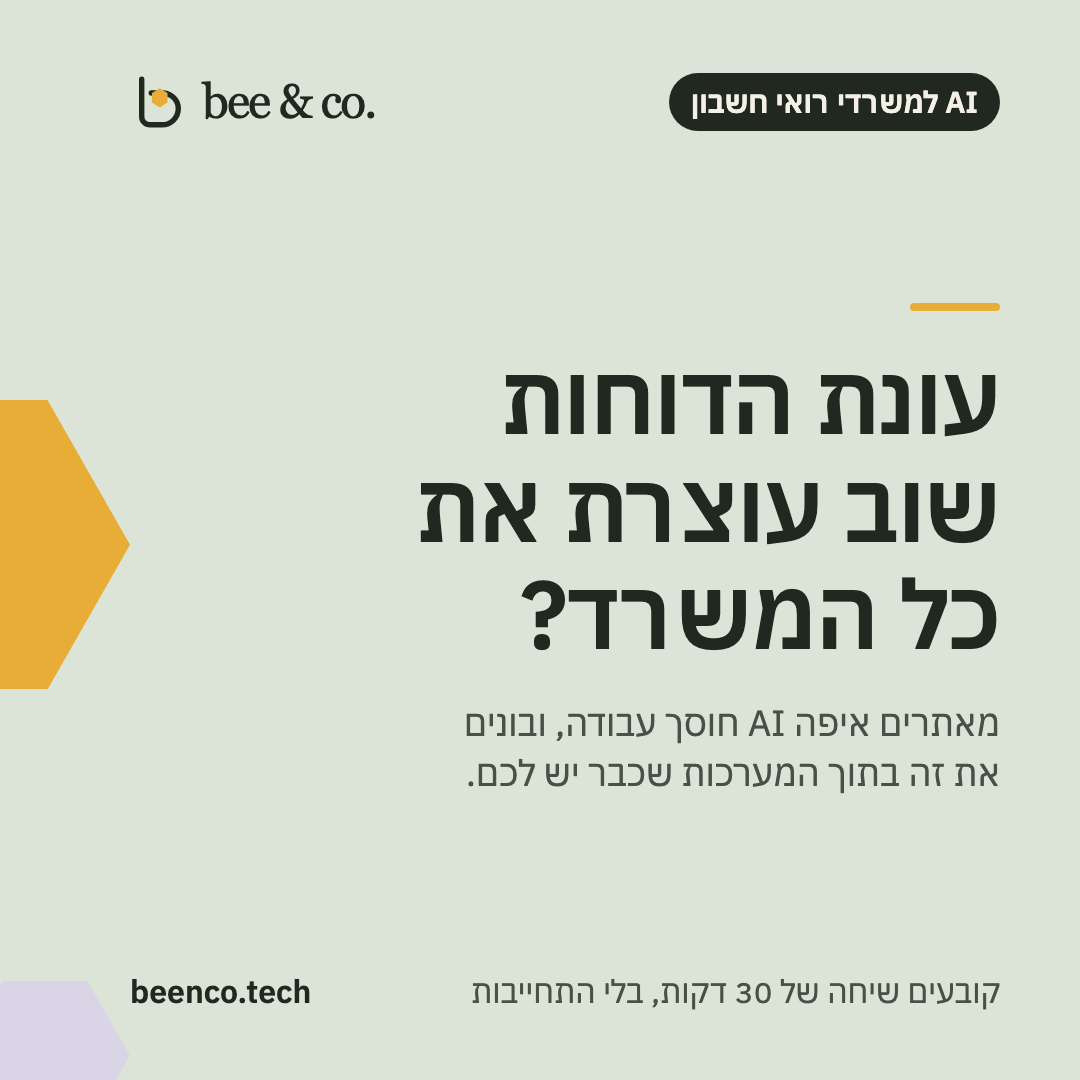
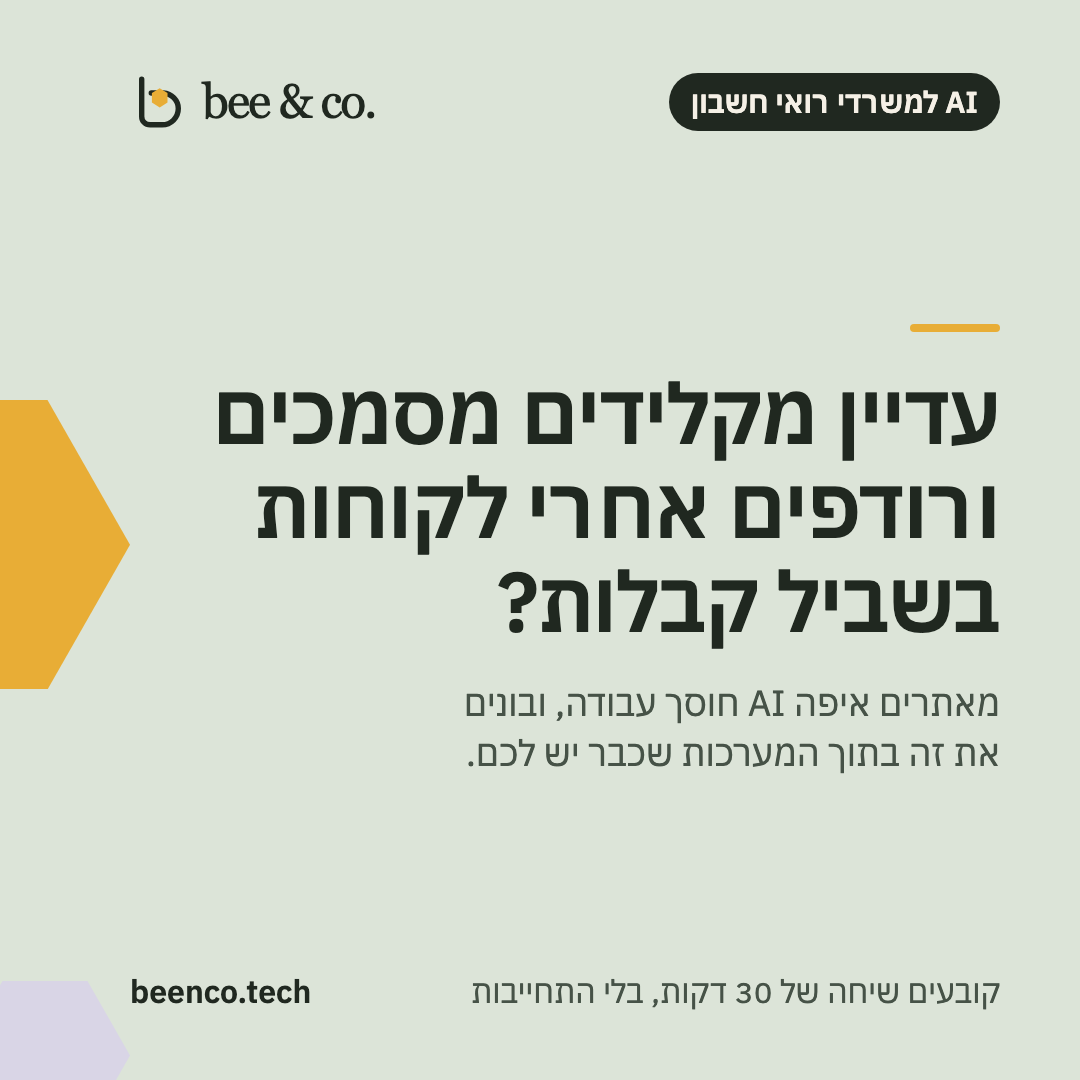
Add accounting Meta ad variants

Changed region(s): [[0.1833, 0.3361, 0.9472, 0.6111], [0.4278, 0.6417, 0.9472, 0.7333], [0.825, 0.275, 0.9472, 0.3056]]

diff --git a/marketing/ads/meta-manual-setup.md b/marketing/ads/meta-manual-setup.md
@@ -58,6 +58,22 @@ Ad set name: **Accounting – Israel 30-65**. Create the first ad, then **Duplic
 - **Headline:** AI שרודף אחרי המסמכים במקומכם
 - **Website URL:** https://beenco.tech/for/accounting?utm_source=facebook&utm_medium=paid&utm_campaign=accounting-w1&utm_content=hook-reminder
 
+### accounting – hook-keying
+
+- **Ad name:** accounting – hook-keying
+- **Image:** `marketing/ads/meta-upload/accounting-hook-keying-square.png`
+- **Primary text:** העובדים מבלים את היום בהקלדה ובהתאמות? AI מציע רישומים והתאמות בנק בתוך התוכנה שלכם. איש מקצוע מאשר כל חריג. שיחה של 30 דקות עם ערן, בלי התחייבות.
+- **Headline:** פחות הקלדה והתאמות, עם AI
+- **Website URL:** https://beenco.tech/for/accounting?utm_source=facebook&utm_medium=paid&utm_campaign=accounting-w1&utm_content=hook-keying
+
+### accounting – hook-onprem
+
+- **Ad name:** accounting – hook-onprem
+- **Image:** `marketing/ads/meta-upload/accounting-hook-onprem-square.png`
+- **Primary text:** חשבשבת מותקנת אצלכם במשרד, לא בענן? אנחנו בונים AI שעובד לצד התוכנה שכבר יש לכם, ואת ההתאמה לגרסה ולהתקנה שלכם בודקים בשיחה הראשונה. שיחה של 30 דקות עם ערן, בלי התחייבות.
+- **Headline:** בודקים התאמה גם לחשבשבת מקומית
+- **Website URL:** https://beenco.tech/for/accounting?utm_source=facebook&utm_medium=paid&utm_campaign=accounting-w1&utm_content=hook-onprem
+
 ## bee&co | Distribution | Meta | W1
 
 Ad set name: **Distribution – Israel 30-65**. Create the first ad, then **Duplicate** it inside the ad set for the other three and change the fields below.
